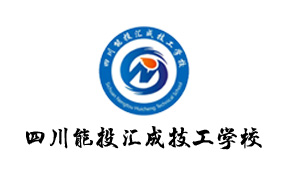
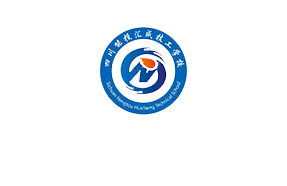
修改了底部logo，新增加文章详情和文章列表

Changed region(s): [[0.3345, 0.1344, 0.669, 0.6452], [0.0836, 0.672, 0.9199, 0.8065], [0.446, 0.2688, 0.4739, 0.2957]]

diff --git a/articleinfo.html b/articleinfo.html
@@ -1,0 +1,246 @@
+<!DOCTYPE html>
+<html lang="en">
+	<head>
+		<meta charset="utf-8">
+		<title>能投汇成</title>
+		<meta name="description" content="能投汇成">
+		<!--[if IE]>
+			<meta http-equiv="X-UA-Compatible" content="IE=edge">
+			<![endif]-->
+		<meta name="viewport" content="width=device-width, initial-scale=1">
+		<meta name="author" content="xubo">
+		<link rel="shortcut icon" href="images/favicon.png" type="image/x-icon" />
+		<link rel="apple-touch-icon" href="images/apple-touch-icon.png" />
+		<link rel="apple-touch-icon" sizes="72x72" href="images/apple-touch-icon-72x72.png" />
+		<link rel="apple-touch-icon" sizes="114x114" href="images/apple-touch-icon-114x114.png" />
+		<link rel="stylesheet" type="text/css" href="third-party/sidr/css/jquery.sidr.dark.css">
+		<link rel="stylesheet" type="text/css" href="third-party/slick/css/slick.css">
+
+		<link rel="stylesheet" type="text/css" href="third-party/wow/css/animate.min.css">
+		<link rel="stylesheet" type="text/css" href="third-party/prettyphoto/css/prettyPhoto.css">
+		<link rel="stylesheet" type="text/css" href="third-party/accordionjs/css/accordion.min.css">
+		<link rel="stylesheet" type="text/css" href="style.css">
+		<link rel="stylesheet" type="text/css" href="icons/icons.css">
+		<link rel="stylesheet" href="third-party/fakeloader/fakeLoader.css">
+		<link rel="stylesheet" type="text/css" href="css/custom.css">
+		<link rel="stylesheet" type="text/css" href="css/responsive.css">
+		<link rel="stylesheet" id="color" href="css/default.css">
+		<link rel="stylesheet" href="icons/fontawesome/css/all.css">
+		<style type="text/css">
+			.photos .portfolio-item {
+				    width: 24.7%;
+				display: inline-block;
+			}
+			.major .major-item {
+				width: 31%;
+				float: left;
+				margin: 1%;
+				text-align: center;
+				padding: 10px 5px 5px 5px;
+				color: #fff;
+			}
+			.major .major-item img {
+				width: 40px;
+				height: 40px;
+			}
+			.major{
+				padding-left:0px ;
+				padding-right:0px ;
+			}
+		</style>
+		<!--[if lt IE 9]>
+			<script src="http://oss.maxcdn.com/libs/html5shiv/3.7.0/html5shiv.js"></script>
+			<script src="http://oss.maxcdn.com/libs/respond.js/1.4.2/respond.min.js"></script>
+			<![endif]-->
+	</head>
+	<body class="home header-v1">
+		<!-- <div id="fakeloader"></div> -->
+		<div id="page" class="site">
+			<!-- Mobile main menu -->
+			<a href="#" id="mobile-trigger"><i class="fa fa-list" aria-hidden="true"></i></a>
+			<div id="mob-menu">
+				<ul>
+					<li class="current-menu-item"><a href="about.html">About</a> </li>
+					<li><a href="contact.html">Contact</a></li>
+					<li><a href="typography.html">Typographys</a></li>
+				</ul>
+			</div> <!-- #mob-menu -->
+			<header id="masthead" class="site-header">
+				<div class="container">
+					<div class="site-branding pull-left">
+						<div id="site-identity">
+							<h1 class="site-title"><a href="home-v1.html" rel="home"><img alt="logo" src="images/logo.png"></a></h1>
+						</div><!-- #site-identity -->
+					</div><!-- .site-branding -->
+					<a href="#" Class="mt-50 button-extra-small pull-right custom-button button-curved  custom-primary">在线咨询 </a>
+					<div class=" mt-50 quick-contact quick-contact-1 pull-right">
+						<ul>
+							<li class="quick-address">
+								<div class="header-box-icon">
+									<i class="icon-map"></i>
+								</div>
+								<div class="header-box-info">
+									<strong>都江堰市紫荆路2号</strong>
+									<p>四川成都</p>
+								</div>
+							</li>
+							<li class="open-time">
+								<div class="header-box-icon">
+									<i class="icon-clock"></i>
+								</div>
+								<div class="header-box-info">
+									<strong>热线电话：18325544546</strong>
+									<p>7:00-12:50</p>
+								</div>
+							</li>
+						</ul>
+					</div>
+				</div> <!-- .container -->
+			</header> <!-- .site-header -->
+			<div id="main-navigation" class="sticky-enabled">
+				<div class="container">
+					<div class="clear-fix">
+						<nav class="main-navigation pull-left">
+							<ul>
+								<li class="current-menu-item"><a href="#">首页</a> </li>
+								<li class=""><a href="#">学校概况</a> </li>
+								<li class="menu-item-has-children"><a href="#">院系设置</a>
+									<ul class="sub-menu">
+										<li><a href="services.html">软件技术</a></li>
+										<li><a href="portfolio.html">平面设计</a></li>
+										<li><a href="404-error.html">混泥土工程</a></li>
+									</ul>
+								</li>
+								<li class=""><a href="#">学员就业</a> </li>
+								<li class=""><a href="#">实训中心</a> </li>
+								<li class=""><a href="#">招生专栏</a> </li>
+								<li class=""><a href="#">在线咨询</a> </li>
+								<li class=""><a href="#">在线报名</a> </li>
+								<li class=""><a href="#">联系我们</a> </li>
+							</ul>
+						</nav> <!-- .site-navigation -->
+						<div id="header-search">
+							<a href="#" class="search-icon"><i class="fa fa-search"></i></a>
+							<div class="search-box-wrap">
+								<div class="searchform" role="search">
+									<form class="search-form" method="get" action=".">
+										<input type="text" name="s" id="s" placeholder="搜索" value="" class="search-field">
+										<input type="submit" class="search-submit" value="搜索">
+									</form>
+								</div><!-- .searchform -->
+							</div><!-- .search-box-wrap -->
+						</div> <!-- .header-search -->
+					</div><!-- .nav-inner-wrapper -->
+				</div><!-- .container -->
+			</div> <!-- #main-navigation -->
+			<div id="custom-header">
+				<div class="custom-header-content">
+					<div class="container">
+						<h1 class="page-title">文章</h1>
+						<div id="breadcrumb">
+							<div aria-label="Breadcrumbs" class="breadcrumbs breadcrumb-trail">
+								<ul class="trail-items">
+									<li class="trail-item trail-begin"><a href="" rel="home"><span>主页</span></a></li>
+									<li class="trail-item trail-end"><span>文章</span></li>
+								</ul>
+							</div> <!-- .breadcrumbs -->
+						</div> <!-- #breadcrumb -->
+					</div> <!-- .container -->
+				</div>  <!-- .custom-header-content -->
+			</div>
+
+			<div id="content" class="site-content global-layout-no-sidebar">
+				<div class="container">
+					<div class="inner-wrapper">
+						<div id="primary" class="content-area">
+							<main id="main" class="site-main">
+								<aside class="section section-portfolio">
+									<div class="container">
+										<div class="col-grid-12 ">
+											<div class="latest-posts-wrapper">
+												<div class="latest-posts-text-content-wrapper">
+													<div class="latest-posts-text-content">
+														<h3 class="latest-posts-title">
+															<a href="#">文章标题</a>
+														</h3>
+														<div class="entry-meta latest-posts-meta">
+															<span class="byline"><span class="author vcard"><a href="#">Admin</a></span></span>
+															<span class="comments-link"><a href="#">30</a></span>
+															<span class="cat-links"><a href="#" rel="category tag">文章</a></span>
+														</div>
+													</div> <!-- .latest-posts-text-content -->
+												</div> <!-- .latest-posts-text-content-wrapper -->
+											</div> <!-- .latest-posts-wrapper -->
+										</div>
+										<hr>
+										<div>文章详情文章详情文章详情文章详情文章详情文章详情文章详情文章详情文章详情文章详情文章详情文章详情文章详情文章详情文章详情文章详情文章详情文章详情文章详情文章详情文章详情文章详情文章详情文章详情文章详情文章详情文章详情文章详情文章详情文章详情文章详情文章详情文章详情文章详情文章详情文章详情文章详情文章详情文章详情文章详情文章详情文章详情文章详情文章详情文章详情文章详情文章详情文章详情文章详情文章详情文章详情文章详情文章详情文章详情文章详情文章详情文章详情文章详情文章详情文章详情文章详情文章详情文章详情文章详情文章详情文章详情文章详情文章详情文章详情文章详情文章详情文章详情文章详情文章详情文章详情文章详情文章详情文章详情文章详情文章详情文章详情文章详情文章详情文章详情文章详情文章详情文章详情文章详情文章详情文章详情文章详情文章详情文章详情文章详情文章详情文章详情文章详情文章详情文章详情文章详情文章详情文章详情文章详情文章详情文章详情文章详情文章详情文章详情文章详情文章详情文章详情文章详情文章详情文章详情文章详情文章详情文章详情文章详情文章详情文章详情文章详情文章详情文章详情文章详情文章详情文章详情文章详情文章详情文章详情文章详情文章详情文章详情文章详情文章详情文章详情文章详情文章详情文章详情文章详情文章详情文章详情文章详情文章详情文章详情文章详情文章详情文章详情文章详情文章详情文章详情文章详情文章详情文章详情文章详情文章详情文章详情文章详情文章详情文章详情文章详情文章详情文章详情文章详情文章详情文章详情文章详情文章详情文章详情文章详情文章详情文章详情文章详情文章详情文章详情文章详情文章详情文章详情文章详情文章详情文章详情文章详情文章详情文章详情文章详情文章详情文章详情文章详情文章详情文章详情文章详情文章详情文章详情文章详情文章详情文章详情文章详情文章详情文章详情文章详情文章详情文章详情文章详情文章详情文章详情文章详情文章详情文章详情文章详情文章详情文章详情文章详情文章详情文章详情文章详情文章详情文章详情文章详情文章详情文章详情文章详情文章详情文章详情文章详情文章详情文章详情文章详情文章详情文章详情文章详情文章详情文章详情文章详情文章详情文章详情文章详情文章详情文章详情文章详情文章详情文章详情文章详情文章详情文章详情文章详情文章详情文章详情文章详情文章详情文章详情文章详情文章详情文章详情文章详情文章详情文章详情文章详情文章详情文章详情文章详情文章详情文章详情文章详情文章详情文章详情文章详情文章详情文章详情文章详情文章详情文章详情文章详情文章详情文章详情文章详情文章详情文章详情文章详情文章详情文章详情文章详情文章详情文章详情文章详情文章详情文章详情文章详情文章详情文章详情文章详情文章详情文章详情文章详情文章详情文章详情文章详情文章详情文章详情文章详情文章详情文章详情文章详情文章详情文章详情文章详情文章详情文章详情文章详情文章详情文章详情文章详情文章详情文章详情文章详情文章详情文章详情文章详情文章详情文章详情文章详情文章详情文章详情文章详情文章详情文章详情文章详情文章详情文章详情文章详情文章详情文章详情文章详情文章详情文章详情文章详情文章详情文章详情文章详情文章详情文章详情文章详情文章详情文章详情文章详情文章详情文章详情文章详情文章详情文章详情文章详情文章详情文章详情文章详情文章详情文章详情文章详情文章详情文章详情文章详情文章详情文章详情文章详情文章详情文章详情文章详情文章详情文章详情文章详情文章详情文章详情文章详情文章详情文章详情文章详情文章详情文章详情文章详情文章详情文章详情文章详情文章详情文章详情文章详情文章详情文章详情文章详情文章详情文章详情文章详情文章详情文章详情文章详情文章详情文章详情文章详情文章详情文章详情文章详情文章详情文章详情文章详情文章详情文章详情文章详情文章详情文章详情文章详情文章详情文章详情文章详情文章详情文章详情文章详情文章详情文章详情文章详情文章详情文章详情文章详情文章详情文章详情文章详情文章详情文章详情文章详情文章详情文章详情文章详情文章详情文章详情文章详情文章详情文章详情文章详情文章详情文章详情文章详情文章详情文章详情文章详情文章详情文章详情文章详情文章详情文章详情文章详情文章详情文章详情文章详情文章详情文章详情文章详情文章详情文章详情文章详情文章详情文章详情文章详情文章详情文章详情文章详情文章详情文章详情文章详情文章详情文章详情文章详情文章详情文章详情文章详情文章详情文章详情文章详情文章详情文章详情文章详情文章详情文章详情文章详情文章详情文章详情文章详情文章详情文章详情文章详情文章详情文章详情文章详情文章详情文章详情文章详情文章详情文章详情文章详情文章详情文章详情文章详情文章详情文章详情文章详情文章详情文章详情文章详情文章详情文章详情文章详情文章详情文章详情文章详情文章详情文章详情文章详情文章详情文章详情文章详情文章详情文章详情文章详情文章详情文章详情文章详情文章详情文章详情文章详情文章详情文章详情文章详情文章详情文章详情文章详情文章详情文章详情文章详情文章详情文章详情文章详情文章详情文章详情文章详情文章详情文章详情文章详情文章详情文章详情文章详情文章详情文章详情文章详情文章详情文章详情文章详情文章详情文章详情文章详情文章详情文章详情文章详情文章详情文章详情文章详情文章详情文章详情文章详情文章详情文章详情文章详情文章详情文章详情文章详情文章详情文章详情文章详情文章详情文章详情文章详情文章详情文章详情文章详情文章详情文章详情文章详情文章详情文章详情文章详情文章详情文章详情文章详情文章详情文章详情文章详情文章详情文章详情文章详情文章详情文章详情文章详情文章详情文章详情文章详情文章详情文章详情文章详情文章详情</div>
+									</div><!-- end masonry-wrapper -->
+								</aside><!-- end portfolio -->
+							</main> <!-- #main -->
+						</div> <!-- #primary -->
+					</div> <!-- .inner-wrapper -->
+				</div> <!-- .container -->
+			</div>
+			<div class="footer-container">
+				<div id="footer-widgets">
+					<div class="container">
+						<div class="inner-wrapper">
+							<aside class="footer-active-4 footer-widget-area">
+								<img src="images/img_xc.png" alt="Recent Post">
+							</aside> <!-- .footer-widget-area -->
+							<aside style="width: 75%;" class="footer-widget-area">
+								<ul class="">
+									<li class="current-menu-item"><a href="#">首页</a> </li>
+									<li class=""><a href="#">学校概况</a> </li>
+									<li class=""><a href="#">课程专业</a> </li>
+									<li class=""><a href="#">教学实力</a> </li>
+									<li class=""><a href="#">招生简介</a> </li>
+									<li class=""><a href="#">在线咨询</a> </li>
+									<li class=""><a href="#">联系我们</a> </li>
+								</ul>
+								<div class="widget-quick-contact">
+									<span>copyright 版权所有：四川能投汇成技工学校</span>
+									<span>联系电话：0288456 41564565 456456456 </span>
+									<span>地址：四川省成都市都江堰市紫金路2号 电子邮箱：46545@qq.com </span>
+								</div>
+							</aside>
+						</div><!-- .inner-wrapper -->
+					</div> <!-- .container -->
+				</div> <!-- #footer-widgets -->
+				<footer id="colophon" class="site-footer">
+					<div class="colophon-bottom">
+						<div class="container">
+							<div class="copyright">
+								<p> Copyright © 2018 <a href="http://www.xoolv.com/">大搜索</a></p>
+							</div>
+							<div class="site-info">
+								<p>备案号：<a rel="" href="http://www.xoolv.com/" target="_blank">京ICP备16006021号-1</a> </p>
+							</div> <!-- .site-info -->
+						</div> <!-- .container -->
+					</div> <!-- .colophon-bottom -->
+				</footer> <!-- footer ends here -->
+			</div><!-- footer-container -->
+		</div>
+		<!--#page-->
+		<div id="btn-scrollup">
+			<a title="Go Top" class="scrollup button-circle" href="#"><i class="fas fa-angle-up"></i></a>
+		</div>
+		<script src="third-party/jquery/jquery-3.2.1.min.js"></script>
+		<script src="third-party/jquery/jquery-migrate-3.0.0.min.js"></script>
+		<!--Include all compiled plugins (below), or include individual files as needed-->
+		<script src="third-party/sidr/js/jquery.sidr.js"></script>
+		<script src="third-party/cycle2/jquery.cycle2.js"></script>
+		<script src="third-party/slick/js/slick.min.js"></script>
+		<script src="third-party/wow/js/wow.min.js"></script>
+		<script src="third-party/counter-up/js/waypoints.min.js"></script>
+		<script src="third-party/counter-up/js/jquery.counterup.min.js"></script>
+		<script src="third-party/isotope/js/isotope.pkgd.min.js"></script>
+		<script src="third-party/prettyphoto/js/jquery.prettyPhoto.js"></script>
+		<script src="third-party/fakeloader/fakeLoader.min.js"></script>
+		<script src="third-party/accordionjs/js/accordion.min.js"></script>
+		<script src="third-party/imagesloaded/imagesloaded.pkgd.min.js"></script>
+		<script src="js/contact.js"></script>
+		<script src="js/custom.js"></script>
+		<script src="js/color-switcher.js"></script>
+	</body>
+</html>

diff --git a/articlelist.html b/articlelist.html
@@ -174,7 +174,7 @@
                 </div> <!-- .section-title-wrap -->
                 <div class="inner-wrapper">
                     <div class="col-grid-12 latest-posts-item" style="margin-bottom: 10px">
-                        <div class="latest-posts-wrapper box-shadow-block">
+                        <div class="latest-posts-wrapper">
                             <div class="latest-posts-thumb" style='width: 20%; float: left;'>
                                 <a href="#"><img alt="Recent Post" src="images/blog/blog-5.jpg"></a>
                             </div>
@@ -198,7 +198,7 @@
                     </div> <!-- .latest-posts-item  -->
 
                     <div class="col-grid-12 latest-posts-item" style="margin-bottom: 10px">
-                        <div class="latest-posts-wrapper box-shadow-block">
+                        <div class="latest-posts-wrapper ">
                             <div class="latest-posts-thumb" style='width: 20%; float: left;'>
                                 <a href="#"><img alt="Recent Post" src="images/blog/blog-5.jpg"></a>
                             </div>
@@ -222,7 +222,7 @@
                     </div> <!-- .latest-posts-item  -->
 
                     <div class="col-grid-12 latest-posts-item" style="margin-bottom: 10px">
-                        <div class="latest-posts-wrapper box-shadow-block">
+                        <div class="latest-posts-wrapper ">
                             <div class="latest-posts-thumb" style='width: 20%; float: left;'>
                                 <a href="#"><img alt="Recent Post" src="images/blog/blog-5.jpg"></a>
                             </div>
@@ -246,7 +246,7 @@
                     </div> <!-- .latest-posts-item  -->
 
                     <div class="col-grid-12 latest-posts-item" style="margin-bottom: 10px">
-                        <div class="latest-posts-wrapper box-shadow-block">
+                        <div class="latest-posts-wrapper ">
                             <div class="latest-posts-thumb" style='width: 20%; float: left;'>
                                 <a href="#"><img alt="Recent Post" src="images/blog/blog-5.jpg"></a>
                             </div>
@@ -270,7 +270,7 @@
                     </div> <!-- .latest-posts-item  -->
 
                     <div class="col-grid-12 latest-posts-item" style="margin-bottom: 10px">
-                        <div class="latest-posts-wrapper box-shadow-block">
+                        <div class="latest-posts-wrapper ">
                             <div class="latest-posts-thumb" style='width: 20%; float: left;'>
                                 <a href="#"><img alt="Recent Post" src="images/blog/blog-5.jpg"></a>
                             </div>
@@ -305,7 +305,7 @@
             <div class="container">
                 <div class="inner-wrapper">
                     <aside class="footer-active-4 footer-widget-area">
-                        <img src="images/img_xc.jpg" alt="Recent Post">
+                        <img src="images/img_xc.png" alt="Recent Post">
                     </aside> <!-- .footer-widget-area -->
                     <aside style="width: 75%;" class="footer-widget-area">
                         <ul class="">

diff --git a/departments.html b/departments.html
@@ -385,7 +385,7 @@
             <div class="container">
                 <div class="inner-wrapper">
                     <aside class="footer-active-4 footer-widget-area">
-                        <img src="images/img_xc.jpg" alt="Recent Post">
+                        <img src="images/img_xc.png" alt="Recent Post">
                     </aside> <!-- .footer-widget-area -->
                     <aside style="width: 75%;" class="footer-widget-area">
                         <ul class="">

diff --git a/introduce.html b/introduce.html
@@ -338,7 +338,7 @@
             <div class="container">
                 <div class="inner-wrapper">
                     <aside class="footer-active-4 footer-widget-area">
-                        <img src="images/img_xc.jpg" alt="Recent Post">
+                        <img src="images/img_xc.png" alt="Recent Post">
                     </aside> <!-- .footer-widget-area -->
                     <aside style="width: 75%;" class="footer-widget-area">
                         <ul class="">

diff --git a/rstudents.html b/rstudents.html
@@ -299,7 +299,7 @@
             <div class="container">
                 <div class="inner-wrapper">
                     <aside class="footer-active-4 footer-widget-area">
-                        <img src="images/img_xc.jpg" alt="Recent Post">
+                        <img src="images/img_xc.png" alt="Recent Post">
                     </aside> <!-- .footer-widget-area -->
                     <aside style="width: 75%;" class="footer-widget-area">
                         <ul class="">

diff --git a/index.html b/index.html
@@ -538,7 +538,7 @@
 					<div class="container">
 						<div class="inner-wrapper">
 							<aside class="footer-active-4 footer-widget-area">
-								<img src="images/img_xc.jpg" alt="Recent Post">
+								<img src="images/img_xc.png" alt="Recent Post">
 							</aside> <!-- .footer-widget-area -->
 							<aside style="width: 75%;" class="footer-widget-area">
 								<ul class="">

diff --git a/style.css b/style.css
@@ -2039,7 +2039,7 @@ a.custom-button.quick-link-button {
 
 #custom-header {
 	position: relative;
-	background: url(images/custom-header/custom-header.jpg);
+	background: url(images/slider/slide-9.jpg);
 	padding: 85px 0;
 	clear: both;
 	background-size: 100%;
